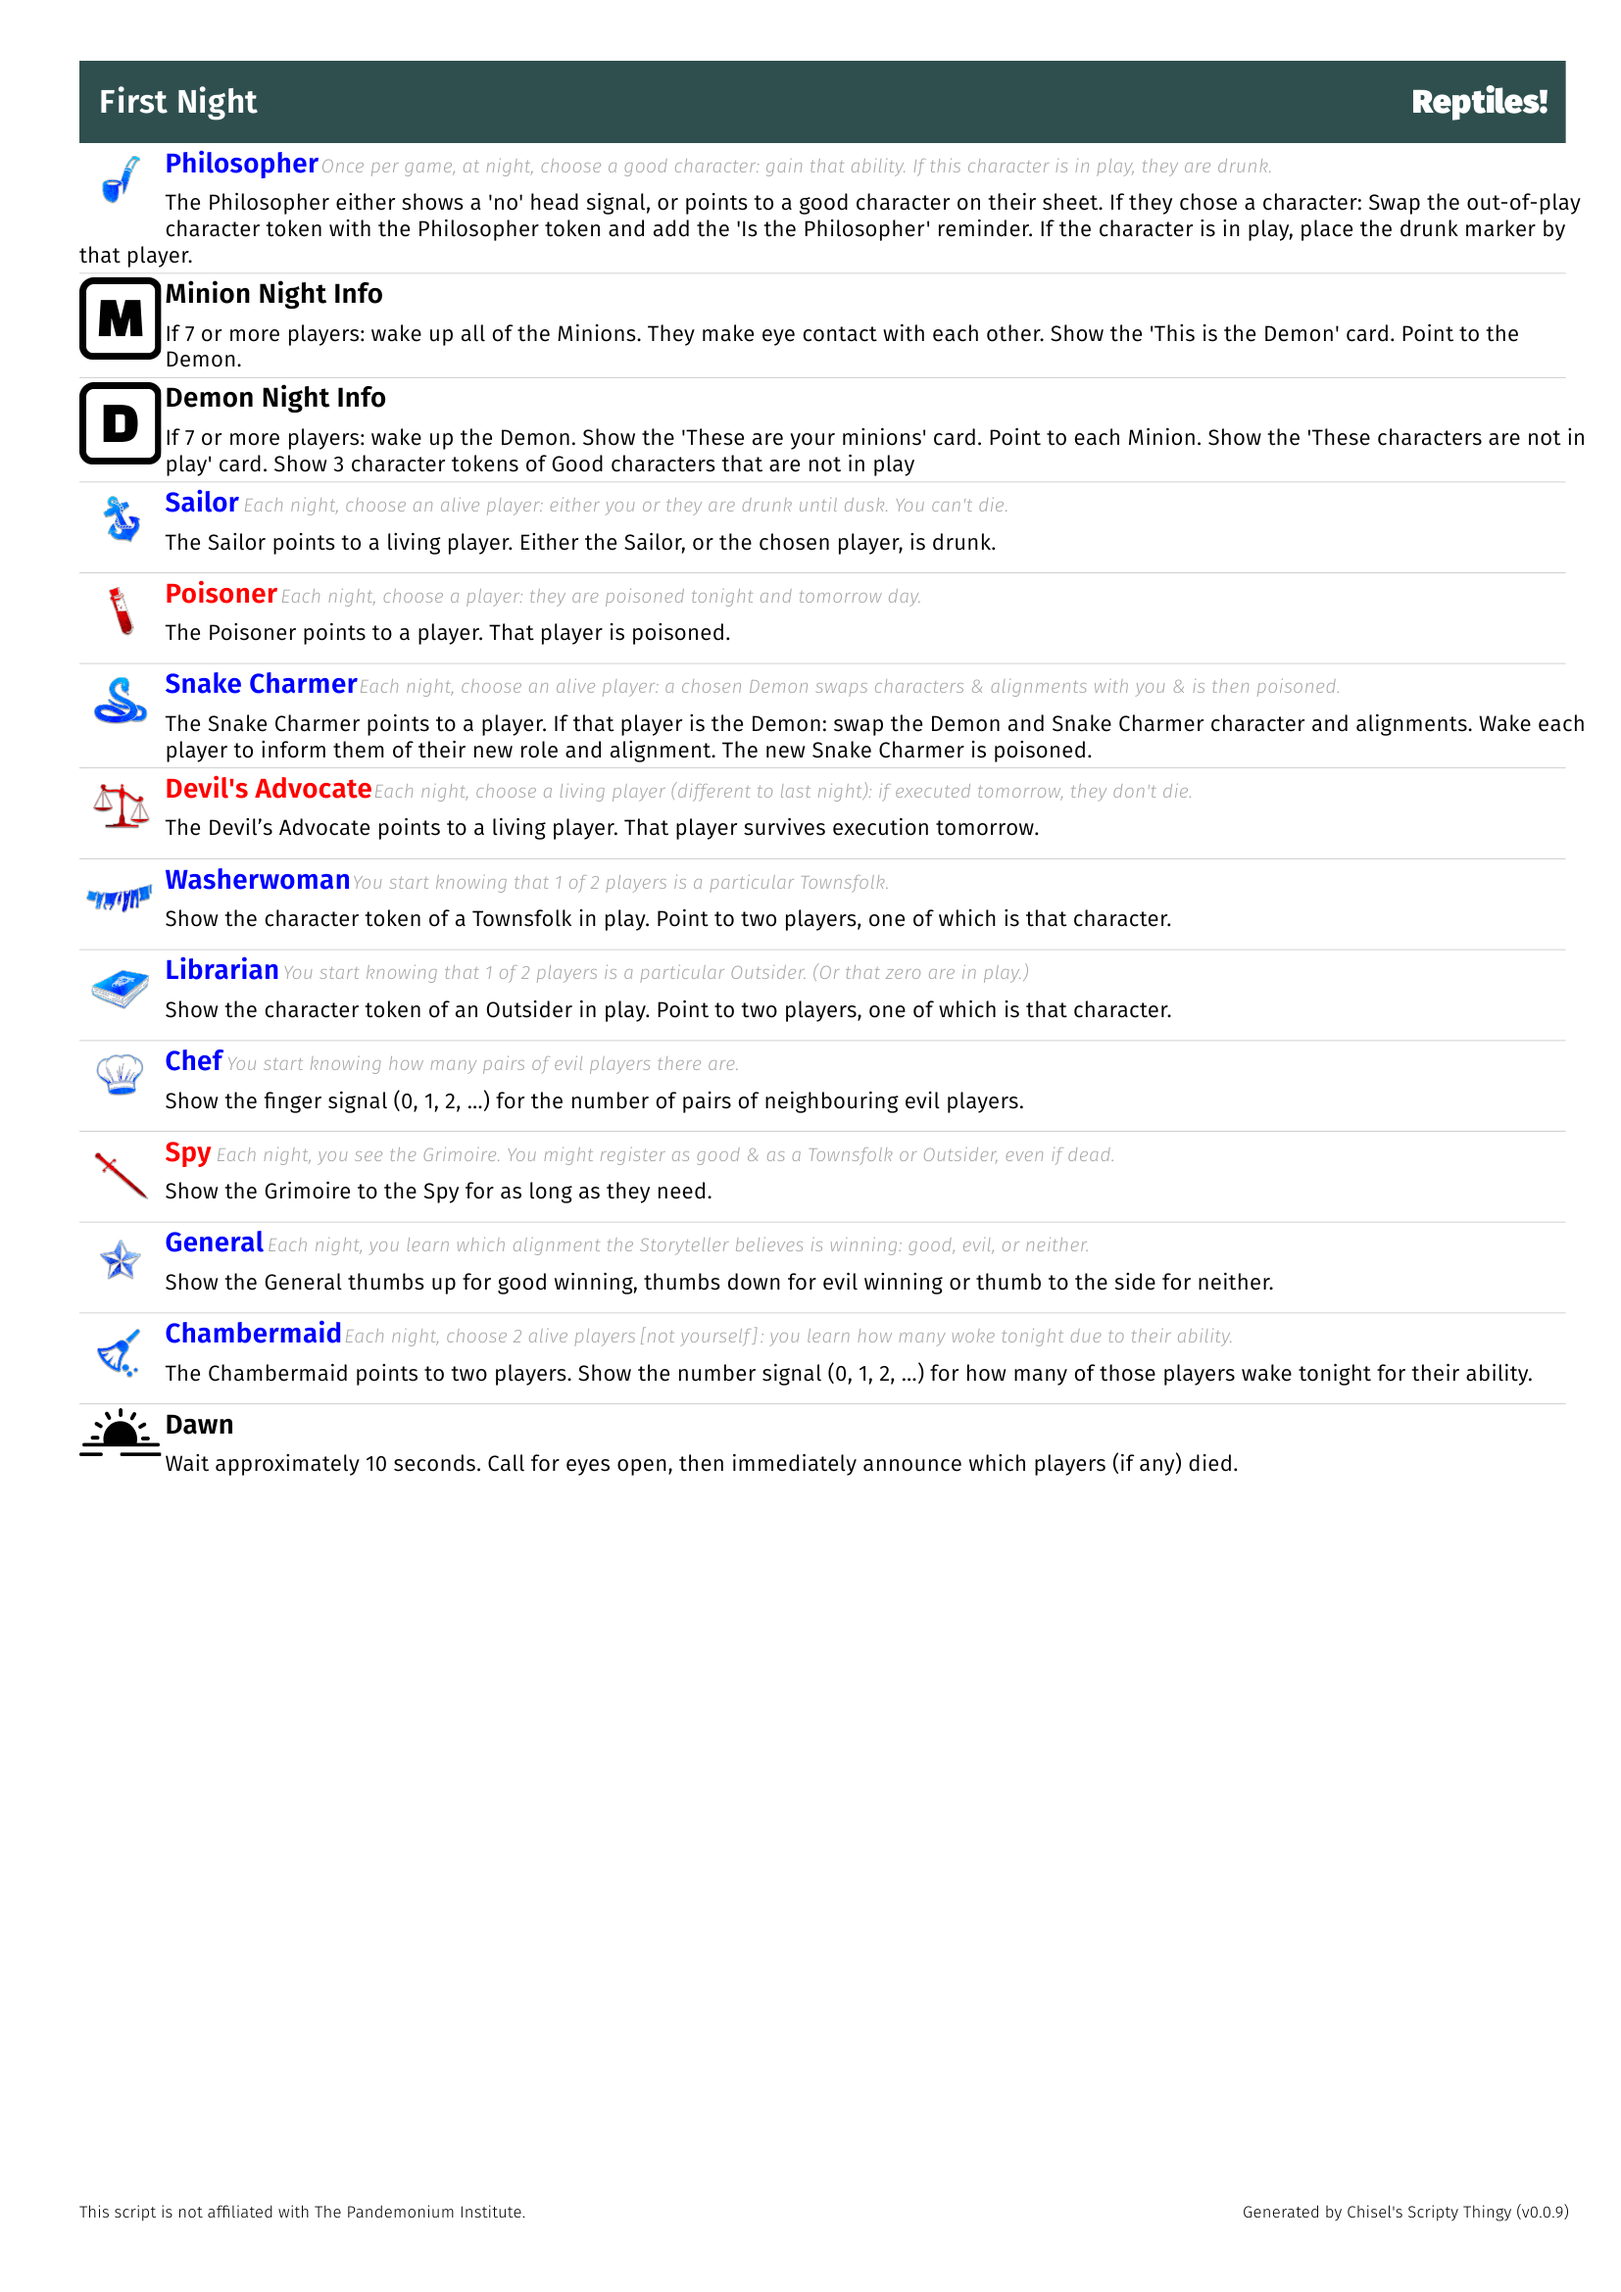
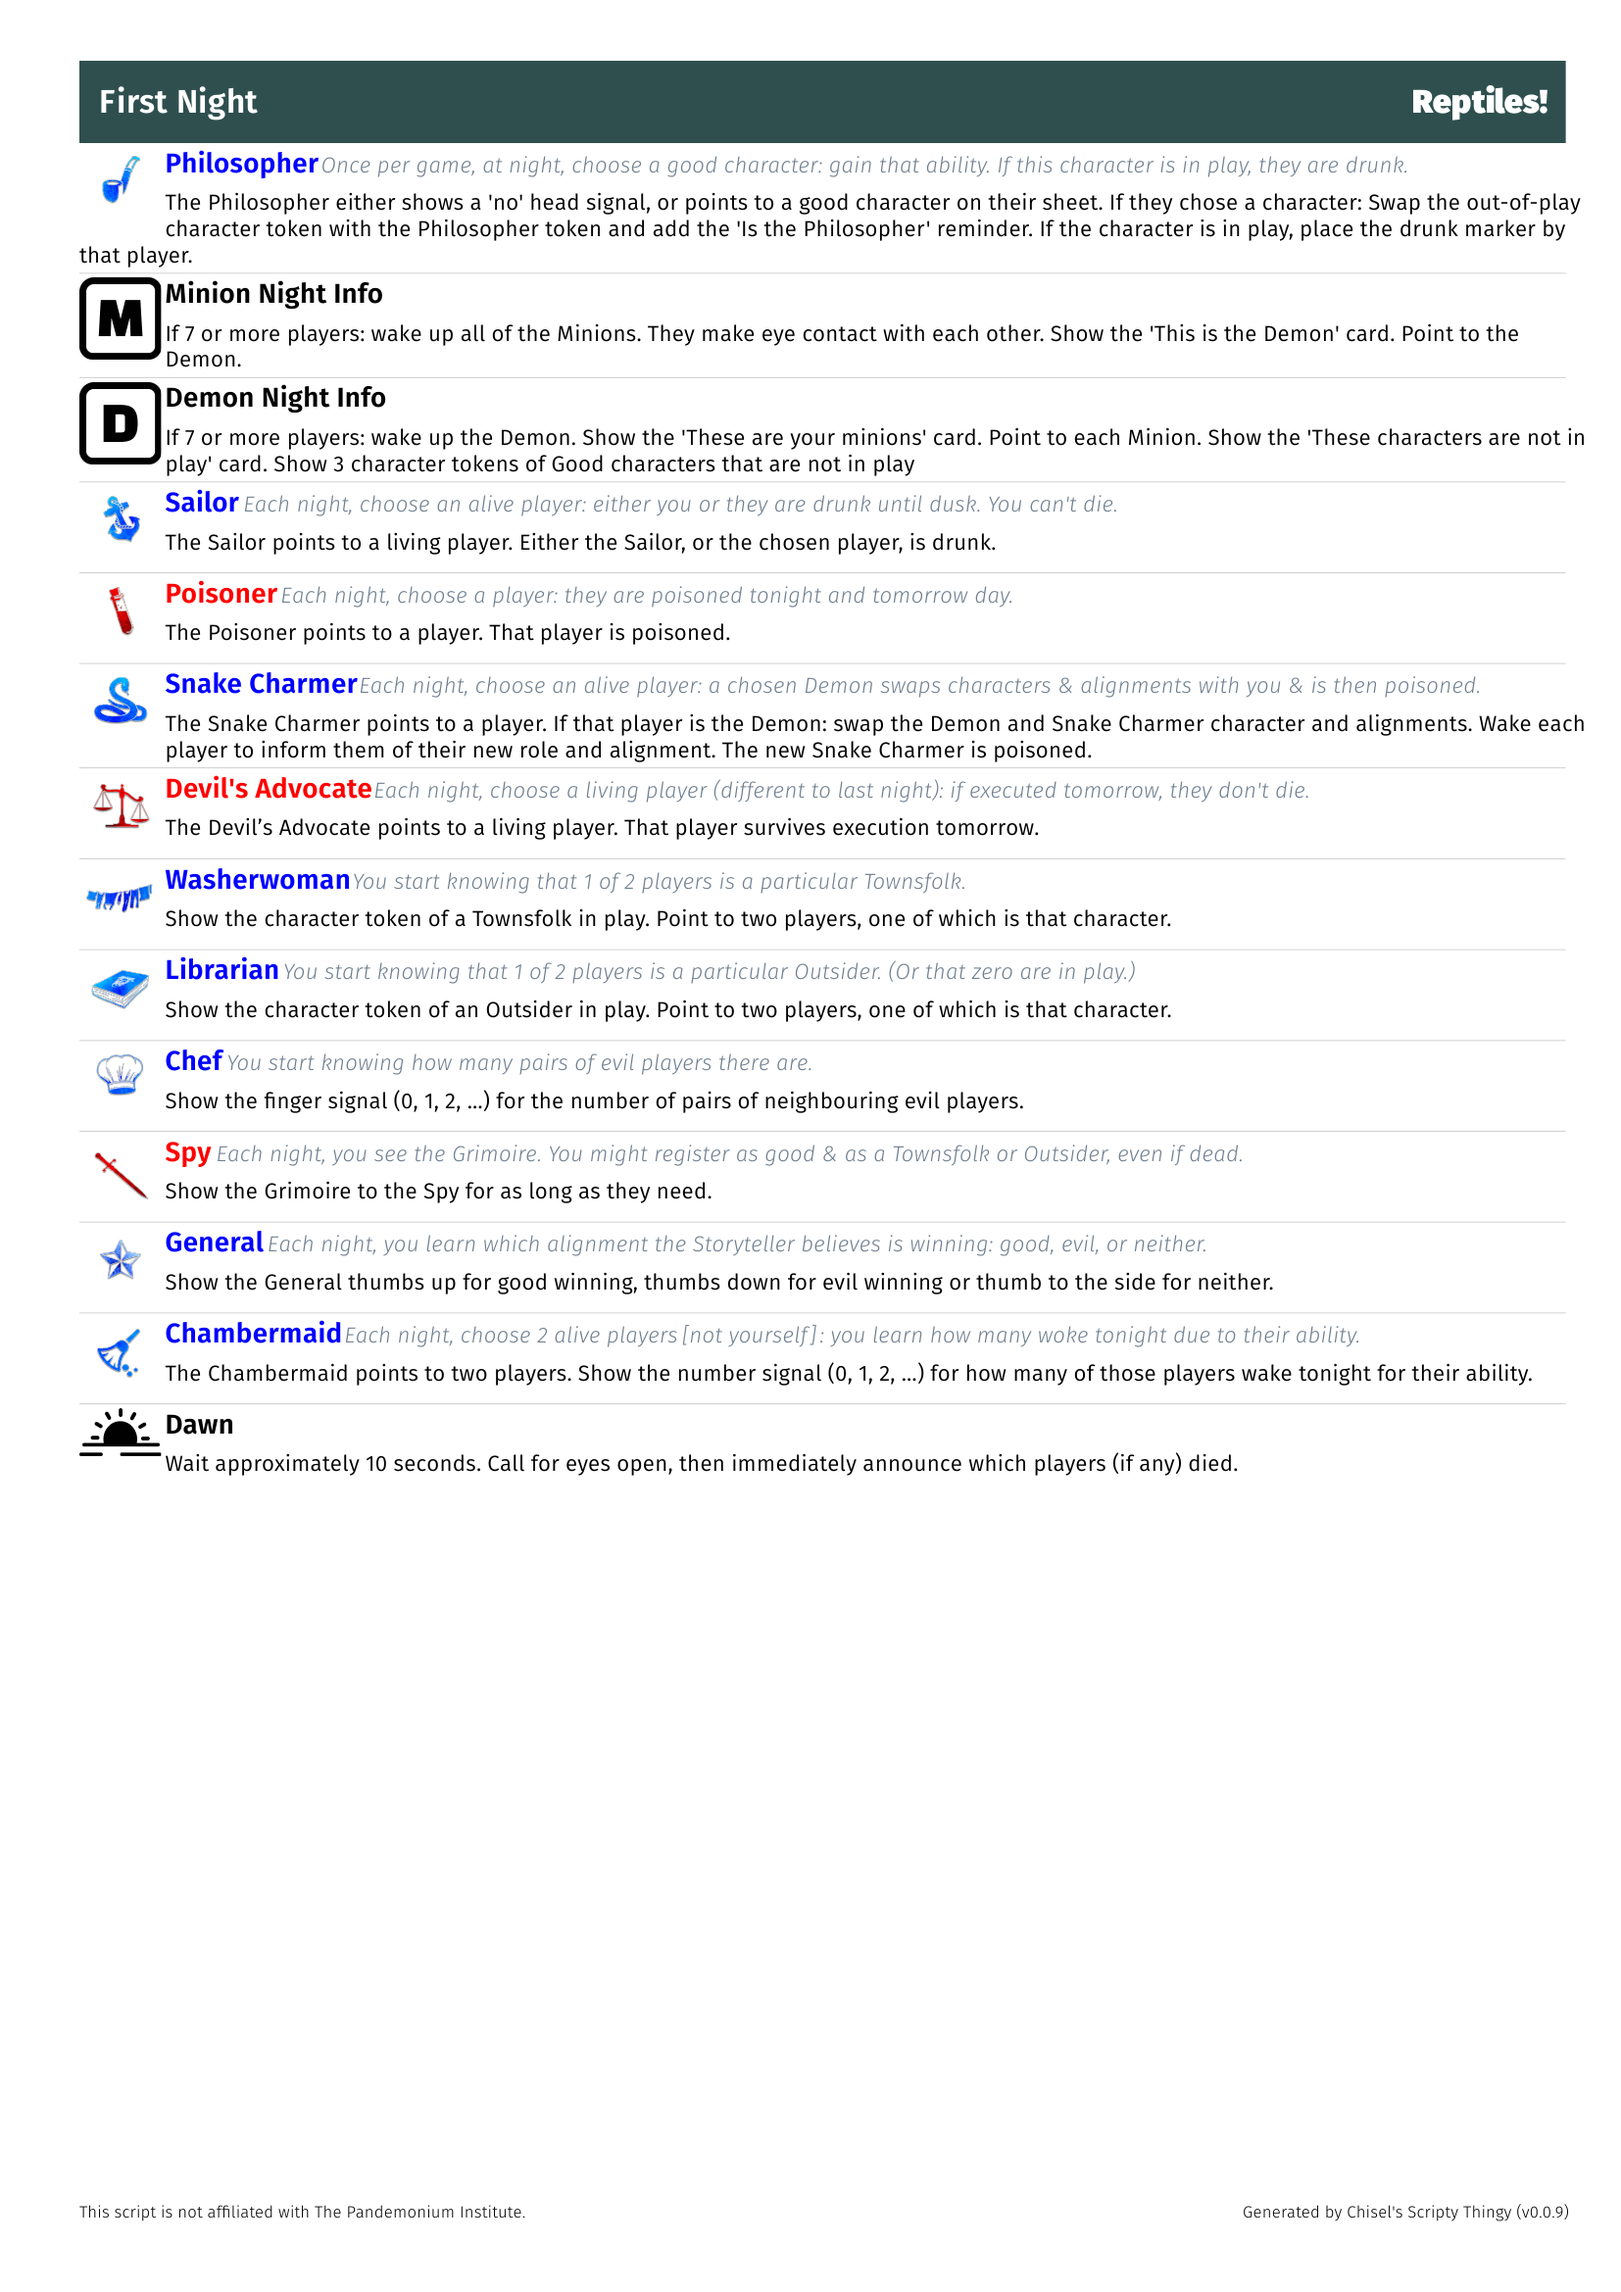
increase visibility of reminder text on night order pages

diff --git a/templates/style.css b/templates/style.css
@@ -106,8 +106,8 @@ h2.character-type {
 
 .character-ability-reminder {
   font-family: botc-lightitalic, sans-serif;
-  font-size: 7pt;
-  color: darkgray;
+  font-size: 8pt;
+  color: slategrey;
 }
 
 .character-reminder {
